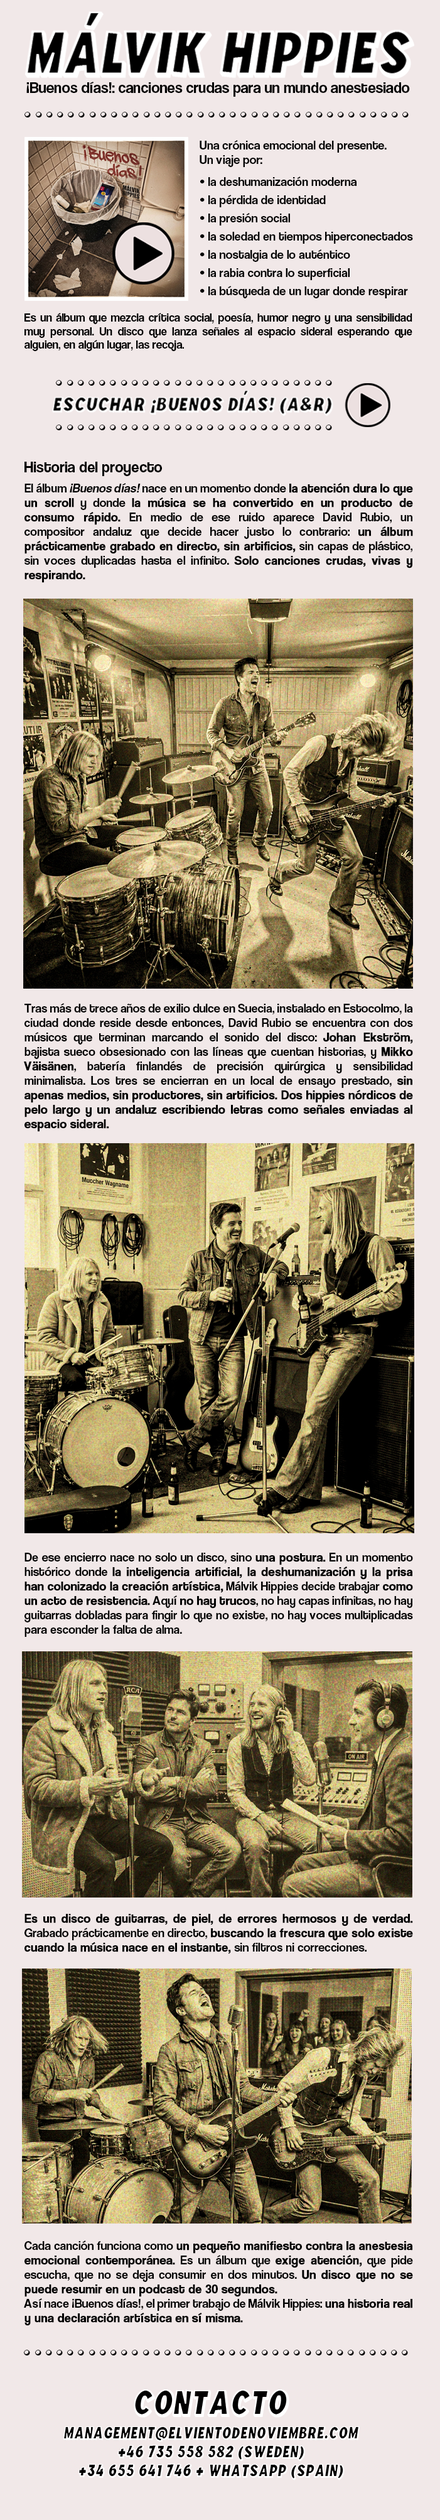
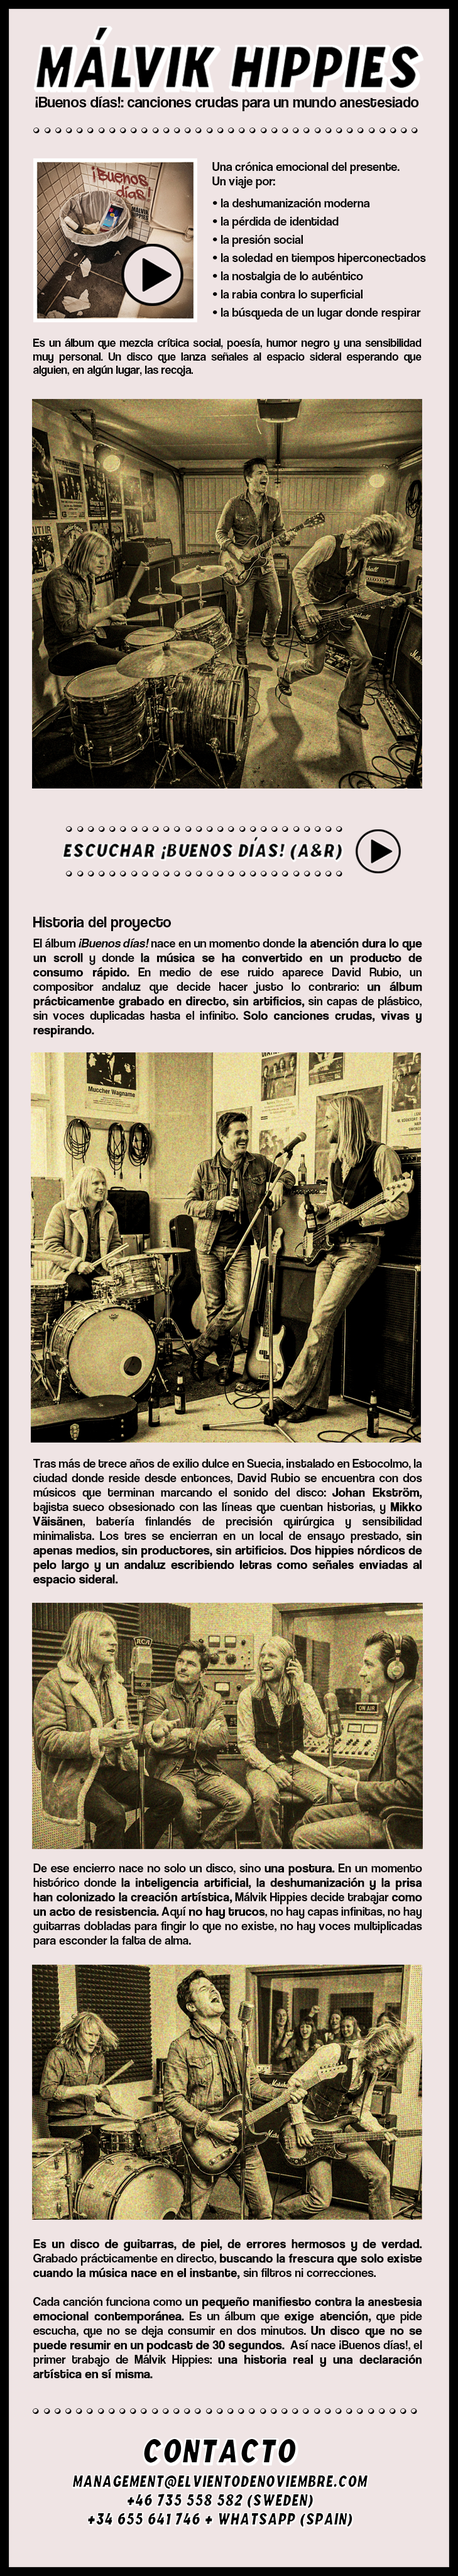
Add files via upload

diff --git a/malvik_hippies.html b/malvik_hippies.html
@@ -87,7 +87,7 @@ body {
 <p align="center">&nbsp;</p>
 <table width="100%" height="74%">
   <tr>
-    <td valign="middle" align="center"><div align="center"><img src="bio_malvik_2026.png" width="701" height="4072" />
+    <td valign="middle" align="center"><div align="center"><img src="bio_malvik_2026.png" width="729" height="4100" />
       <map name="MapMapMapMap" id="MapMapMapMap">
         <area shape="rect" coords="241,10,300,40" href="https://elvientodenoviembre.com/tienda-digi-usb-pack.html" />
         <area shape="rect" coords="292,39,300,41" href="#" />
